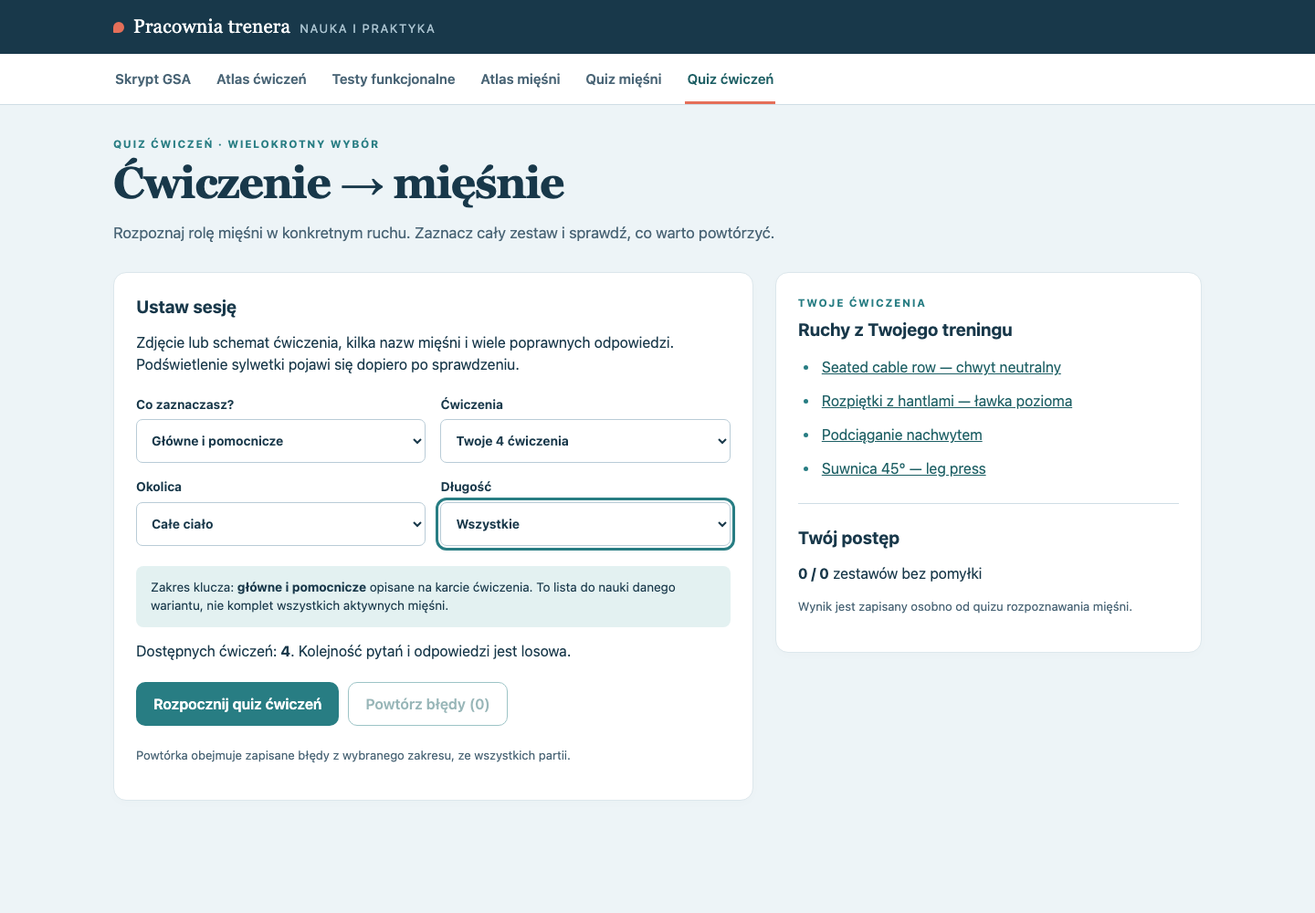
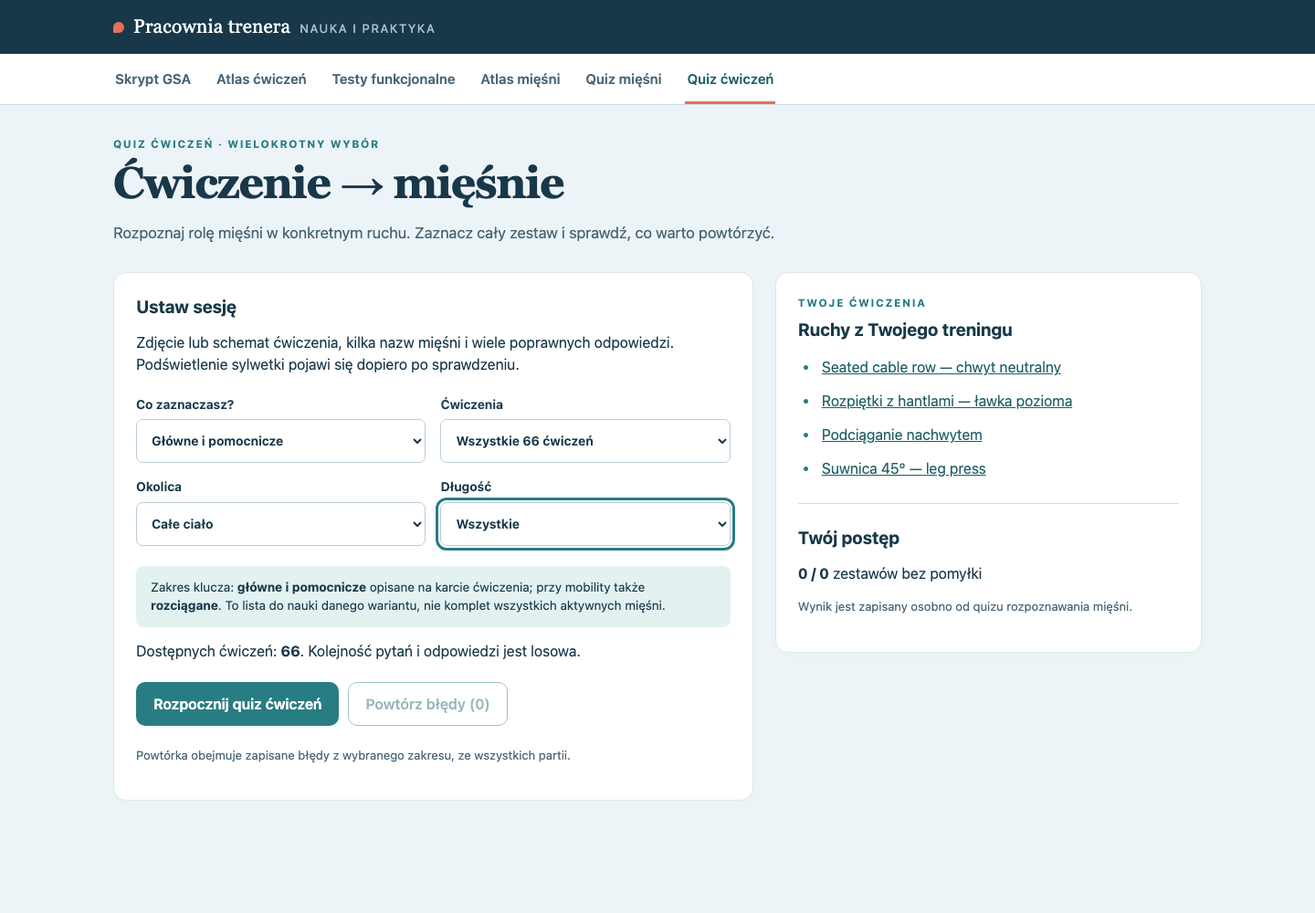
feat: include all 66 exercises in muscle quiz

Changed region(s): [[0.125, 0.62, 0.5, 0.744], [0.3438, 0.465, 0.4375, 0.496]]

diff --git a/src/exercise-quiz/app.js b/src/exercise-quiz/app.js
@@ -2,8 +2,8 @@ import { esc } from '../ui/templates.js';
 import { renderPlate } from '../anatomy/render.js';
 import { eligibleExercises,createExerciseSession,submitSelection,advanceExercise,exerciseScore,loadExerciseProgress,recordExerciseAnswer,saveExerciseProgress } from './engine.js';
 let root,exercises,source,questions,storage,progress,session=null,screen='setup',selected=[],preview=null,serial=0,saveOk=true;
-let config={scope:'ruch',length:10,region:'',onlyOwn:false};
-const scopeLabel=s=>s==='pelny'?'główne, pomocnicze i stabilizujące':'główne i pomocnicze';
+let config={scope:'ruch',length:10,region:'',onlyOwn:false,category:'all'};
+const scopeLabel=(s,e)=>e?.kind==='mobility'?(s==='pelny'?'główne, pomocnicze, rozciągane i stabilizujące':'główne, pomocnicze i rozciągane'):(s==='pelny'?'główne, pomocnicze i stabilizujące':'główne i pomocnicze');
 const buttons=(action,label,cls='btn--primary')=>`<button class="btn ${cls}" type="button" data-eq="${action}">${label}</button>`;
 function heading(){return '<div class="learn-heading"><p class="eyebrow">Quiz ćwiczeń · wielokrotny wybór</p><h1 tabindex="-1">Ćwiczenie → mięśnie</h1><p class="learn-lead">Rozpoznaj rolę mięśni w konkretnym ruchu. Zaznacz cały zestaw i sprawdź, co warto powtórzyć.</p></div>';}
 export function initExerciseQuiz(el,data){
@@ -14,16 +14,16 @@ export function initExerciseQuiz(el,data){
 }
 export function showExerciseQuiz(){render();}
 function active(){return document.body.dataset.section==='quiz-cwiczen';}
-function setup(){const count=eligibleExercises(exercises).filter(e=>(!config.region||e.region===config.region)&&(!config.onlyOwn||e.origin==='twoje')).length;const mistakes=progress.mistakes[config.scope].length;return heading()+`<div class="eq-setup"><section class="learn-card"><h2>Ustaw sesję</h2><p>Zdjęcie lub schemat ćwiczenia, kilka nazw mięśni i wiele poprawnych odpowiedzi. Podświetlenie sylwetki pojawi się dopiero po sprawdzeniu.</p><div class="eq-config"><label>Co zaznaczasz?<select name="eq-scope"><option value="ruch" ${config.scope==='ruch'?'selected':''}>Główne i pomocnicze</option><option value="pelny" ${config.scope==='pelny'?'selected':''}>Także stabilizujące</option></select></label><label>Ćwiczenia<select name="eq-own"><option value="all" ${!config.onlyOwn?'selected':''}>Wszystkie siłowe i warianty</option><option value="own" ${config.onlyOwn?'selected':''}>Twoje 4 ćwiczenia</option></select></label><label>Okolica<select name="eq-region"><option value="">Całe ciało</option>${['Góra ciała','Dół ciała'].map(v=>`<option value="${v}" ${config.region===v?'selected':''}>${v}</option>`).join('')}</select></label><label>Długość<select name="eq-length">${[5,10,20,0].map(v=>`<option value="${v}" ${config.length===v?'selected':''}>${v||'Wszystkie'}</option>`).join('')}</select></label></div><p class="eq-scope">Zakres klucza: <strong>${scopeLabel(config.scope)}</strong> opisane na karcie ćwiczenia. To lista do nauki danego wariantu, nie komplet wszystkich aktywnych mięśni.</p><p>Dostępnych ćwiczeń: <strong>${count}</strong>. Kolejność pytań i odpowiedzi jest losowa.</p><div class="eq-actions"><button class="btn btn--primary" data-eq="start" ${!count?'disabled':''}>Rozpocznij quiz ćwiczeń</button><button class="btn btn--secondary" data-eq="retry" ${!mistakes?'disabled':''}>Powtórz błędy (${mistakes})</button></div><p class="muted eq-small">Powtórka obejmuje zapisane błędy z wybranego zakresu, ze wszystkich partii.</p></section><aside class="learn-card"><p class="eyebrow">Twoje ćwiczenia</p><h2>Ruchy z Twojego treningu</h2><ul class="learn-list">${exercises.filter(e=>e.origin==='twoje').map(e=>`<li><a href="#cwiczenia/${e.id}">${esc(e.title)}</a></li>`).join('')}</ul><hr><h2>Twój postęp</h2><p><strong>${progress.perfect} / ${progress.answered}</strong> zestawów bez pomyłki</p><p class="eq-small muted">Wynik jest zapisany osobno od quizu rozpoznawania mięśni.</p></aside></div>`;}
+function setup(){const count=eligibleExercises(exercises,config.category).filter(e=>(!config.region||e.region===config.region)&&(!config.onlyOwn||e.origin==='twoje')).length;const mistakes=progress.mistakes[config.scope].length;return heading()+`<div class="eq-setup"><section class="learn-card"><h2>Ustaw sesję</h2><p>Zdjęcie lub schemat ćwiczenia, kilka nazw mięśni i wiele poprawnych odpowiedzi. Podświetlenie sylwetki pojawi się dopiero po sprawdzeniu.</p><div class="eq-config"><label>Co zaznaczasz?<select name="eq-scope"><option value="ruch" ${config.scope==='ruch'?'selected':''}>Główne i pomocnicze</option><option value="pelny" ${config.scope==='pelny'?'selected':''}>Także stabilizujące</option></select></label><label>Ćwiczenia<select name="eq-own"><option value="all" ${!config.onlyOwn&&config.category==='all'?'selected':''}>Wszystkie 66 ćwiczeń</option><option value="strength" ${!config.onlyOwn&&config.category==='strength'?'selected':''}>Siłowe i warianty (28)</option><option value="mobility" ${!config.onlyOwn&&config.category==='mobility'?'selected':''}>Mobility i rozciąganie (38)</option><option value="own" ${config.onlyOwn?'selected':''}>Twoje 4 ćwiczenia</option></select></label><label>Okolica<select name="eq-region"><option value="">Całe ciało</option>${[...new Set(eligibleExercises(exercises).map(e=>e.region))].map(v=>`<option value="${v}" ${config.region===v?'selected':''}>${v}</option>`).join('')}</select></label><label>Długość<select name="eq-length">${[5,10,20,0].map(v=>`<option value="${v}" ${config.length===v?'selected':''}>${v||'Wszystkie'}</option>`).join('')}</select></label></div><p class="eq-scope">Zakres klucza: <strong>${scopeLabel(config.scope)}</strong> opisane na karcie ćwiczenia; przy mobility także <strong>rozciągane</strong>. To lista do nauki danego wariantu, nie komplet wszystkich aktywnych mięśni.</p><p>Dostępnych ćwiczeń: <strong>${count}</strong>. Kolejność pytań i odpowiedzi jest losowa.</p><div class="eq-actions"><button class="btn btn--primary" data-eq="start" ${!count?'disabled':''}>Rozpocznij quiz ćwiczeń</button><button class="btn btn--secondary" data-eq="retry" ${!mistakes?'disabled':''}>Powtórz błędy (${mistakes})</button></div><p class="muted eq-small">Powtórka obejmuje zapisane błędy z wybranego zakresu, ze wszystkich partii.</p></section><aside class="learn-card"><p class="eyebrow">Twoje ćwiczenia</p><h2>Ruchy z Twojego treningu</h2><ul class="learn-list">${exercises.filter(e=>e.origin==='twoje').map(e=>`<li><a href="#cwiczenia/${e.id}">${esc(e.title)}</a></li>`).join('')}</ul><hr><h2>Twój postęp</h2><p><strong>${progress.perfect} / ${progress.answered}</strong> zestawów bez pomyłki</p><p class="eq-small muted">Wynik jest zapisany osobno od quizu rozpoznawania mięśni.</p></aside></div>`;}
 function imageFor(e){const ref=e.figures?.[0];return e.image|| (ref?source.pages[ref.page-1]?.figures[ref.index-1]?.src:null);}
 function keyNames(q,ids){return ids.map(id=>q.options.find(o=>o.key===id)?.name||id);}
 function resultList(title,items,cls){return `<div class="eq-result-list ${cls}"><h3>${title}</h3>${items.length?`<ul>${items.map(n=>`<li>${esc(n)}</li>`).join('')}</ul>`:'<p>Brak</p>'}</div>`;}
 function body(){const q=session.items[session.index];const e=exercises.find(e=>e.id===q.exerciseId);const answer=session.answers[session.index];const img=imageFor(e);const selectedKeys=answer?.selected||selected;
-return heading()+`<div class="eq-progress"><span>Pytanie ${session.index+1} z ${session.items.length}</span><span>Bez pomyłki: ${exerciseScore(session).perfect}</span><progress max="${session.items.length}" value="${session.index+(answer?1:0)}" aria-label="Postęp quizu ćwiczeń"></progress></div><div class="eq-question-layout"><section class="learn-card eq-visual"><p class="eyebrow">Rozpoznaj zaangażowanie</p><h2 id="eq-exercise-title">${esc(e.title)}</h2><p class="eq-small muted">${esc(e.pattern)}</p>${img?`<img src="${img}" alt="${esc(e.imageAlt||('Wykonanie: '+e.title+'. Zdjęcie ze skryptu GSA.'))}" class="eq-exercise-image">`:''}<p class="learn-source">${e.origin==='twoje'?'Schemat edukacyjny · ćwiczenie dodane na Twoją prośbę':'Fotografia ze skryptu GSA · PDF '+e.figures[0].page}</p>${answer?`<a href="#cwiczenia/${e.id}">Otwórz pełną kartę i technikę ćwiczenia ↗</a>`:''}</section><section class="learn-card eq-answer-card"><form id="eq-answer"><fieldset ${answer?'disabled':''}><legend>Zaznacz mięśnie ${scopeLabel(session.scope)}.</legend><p class="eq-small muted">Możesz wybrać kilka odpowiedzi. Sprawdzamy zestaw opisany w atlasie dla tego wariantu ćwiczenia.</p><div class="eq-options">${q.options.map((o,i)=>{const hit=answer?.hits.includes(o.key);const missing=answer?.missed.includes(o.key);const extra=answer?.extra.includes(o.key);return `<label class="eq-option ${hit?'eq-hit':missing?'eq-missed':extra?'eq-extra':''}"><input type="checkbox" name="eq-muscle" value="${esc(o.key)}" ${selectedKeys.includes(o.key)?'checked':''}><span>${esc(o.name)}${answer?`<small>${hit?'✓ Poprawnie':missing?'Pominięto':extra?'Poza kluczem':'Poza kluczem — nie zaznaczono'}</small>`:''}</span></label>`}).join('')}</div></fieldset>${!answer?`<button type="submit" class="btn btn--primary" id="eq-check" ${!selected.length?'disabled':''}>Sprawdź zestaw</button>`:''}</form>${answer?`<div class="eq-feedback" role="status"><strong>${answer.perfect?'✓ Cały zestaw poprawny!':'Zestaw wymaga powtórki'}</strong><p>Wynik mięśni: ${answer.percent}%. Trafione: ${answer.hits.length} / ${q.correct.length}. Zaznaczenia poza kluczem obniżają wynik.</p></div><div class="eq-corrections">${resultList('Pominięte mięśnie',keyNames(q,answer.missed),'eq-missed')}${resultList('Zaznaczone poza kluczem',keyNames(q,answer.extra),'eq-extra')}</div>${buttons('next',session.index+1===session.items.length?'Zobacz wynik':'Następne ćwiczenie')}`:`<p class="eq-selection" aria-live="polite">Wybrano: <span id="eq-selected-count">${selected.length}</span></p>`}<div class="eq-bottom">${buttons('quit','Zakończ sesję','btn--quiet')}</div></section></div>${answer?explanation(e,q):''}`;}
-function explanation(e,q){const required=e.muscles.filter(m=>q.correct.includes(m.id));const picked=questions.find(m=>m.id===(preview||required[0]?.id));const photo=picked?renderPlate({viewId:picked.view,targets:picked.targets,crop:picked.crop,idPrefix:'eq'+(++serial)}):'';return `<section class="learn-card eq-explanation"><div><p class="eyebrow">Utrwal po odpowiedzi</p><h2>Rola mięśni w tym ruchu</h2><p class="eq-small muted">Wybierz mięsień, aby obejrzeć jego położenie. Przy grupie kulszowo-goleniowej rycina pokazuje reprezentanta: dwugłowy uda.</p><div class="eq-role-buttons">${e.muscles.filter(m=>m.role!=='rozciągany').map(m=>`<button data-eq="preview" data-id="${esc(m.id||'')}" ${!questions.some(q=>q.id===m.id)?'disabled':''} aria-pressed="${picked?.id===m.id}"><span>${esc(m.name)}</span><small>${esc(m.role)}</small></button>`).join('')}</div><p class="eq-small muted">Zakres oceny: ${scopeLabel(session.scope)}. Poza tym zakresem mięsień może pełnić inną rolę; „poza kluczem” nie oznacza całkowitego braku aktywności.</p></div><figure>${photo}<figcaption>${esc(picked?.name||'Podgląd niedostępny')}</figcaption></figure></section>`;}
-function summary(){const score=exerciseScore(session);const wrong=session.items.filter((q,i)=>session.answers[i]&&!session.answers[i].perfect);return heading()+`<section class="learn-card eq-summary"><p class="eyebrow">Sesja zakończona</p><h2>${score.perfect} / ${score.total} ćwiczeń bez pomyłki</h2><p class="eq-big-score">${score.percent}%<span>średni wynik rozpoznawania mięśni</span></p><p>Zakres: ${scopeLabel(session.scope)}.</p><div class="eq-actions">${buttons('start','Nowa sesja')}<button class="btn btn--secondary" data-eq="retry" ${!progress.mistakes[session.scope].length?'disabled':''}>Powtórz błędy (${progress.mistakes[session.scope].length})</button>${buttons('setup','Ustawienia','btn--quiet')}</div>${wrong.length?`<h3>Do utrwalenia w tej sesji</h3><ul class="learn-list">${wrong.map(q=>`<li><a href="#cwiczenia/${q.exerciseId}">${esc(exercises.find(e=>e.id===q.exerciseId).title)}</a></li>`).join('')}</ul>`:'<p>Wszystkie zestawy rozpoznane poprawnie.</p>'}</section>`;}
+return heading()+`<div class="eq-progress"><span>Pytanie ${session.index+1} z ${session.items.length}</span><span>Bez pomyłki: ${exerciseScore(session).perfect}</span><progress max="${session.items.length}" value="${session.index+(answer?1:0)}" aria-label="Postęp quizu ćwiczeń"></progress></div><div class="eq-question-layout"><section class="learn-card eq-visual"><p class="eyebrow">Rozpoznaj zaangażowanie</p><h2 id="eq-exercise-title">${esc(e.title)}</h2><p class="eq-small muted">${esc(e.pattern)}</p>${img?`<img src="${img}" alt="${esc(e.imageAlt||('Wykonanie: '+e.title+'. Zdjęcie ze skryptu GSA.'))}" class="eq-exercise-image">`:''}<p class="learn-source">${e.origin==='twoje'?'Schemat edukacyjny · ćwiczenie dodane na Twoją prośbę':'Fotografia ze skryptu GSA · PDF '+e.figures[0].page}</p>${answer?`<a href="#cwiczenia/${e.id}">Otwórz pełną kartę i technikę ćwiczenia ↗</a>`:''}</section><section class="learn-card eq-answer-card"><form id="eq-answer"><fieldset ${answer?'disabled':''}><legend>Zaznacz mięśnie ${scopeLabel(session.scope,e)}.</legend><p class="eq-small muted">Możesz wybrać kilka odpowiedzi. Sprawdzamy zestaw opisany w atlasie dla tego wariantu ćwiczenia.</p><div class="eq-options">${q.options.map((o,i)=>{const hit=answer?.hits.includes(o.key);const missing=answer?.missed.includes(o.key);const extra=answer?.extra.includes(o.key);return `<label class="eq-option ${hit?'eq-hit':missing?'eq-missed':extra?'eq-extra':''}"><input type="checkbox" name="eq-muscle" value="${esc(o.key)}" ${selectedKeys.includes(o.key)?'checked':''}><span>${esc(o.name)}${answer?`<small>${hit?'✓ Poprawnie':missing?'Pominięto':extra?'Poza kluczem':'Poza kluczem — nie zaznaczono'}</small>`:''}</span></label>`}).join('')}</div></fieldset>${!answer?`<button type="submit" class="btn btn--primary" id="eq-check" ${!selected.length?'disabled':''}>Sprawdź zestaw</button>`:''}</form>${answer?`<div class="eq-feedback" role="status"><strong>${answer.perfect?'✓ Cały zestaw poprawny!':'Zestaw wymaga powtórki'}</strong><p>Wynik mięśni: ${answer.percent}%. Trafione: ${answer.hits.length} / ${q.correct.length}. Zaznaczenia poza kluczem obniżają wynik.</p></div><div class="eq-corrections">${resultList('Pominięte mięśnie',keyNames(q,answer.missed),'eq-missed')}${resultList('Zaznaczone poza kluczem',keyNames(q,answer.extra),'eq-extra')}</div>${buttons('next',session.index+1===session.items.length?'Zobacz wynik':'Następne ćwiczenie')}`:`<p class="eq-selection" aria-live="polite">Wybrano: <span id="eq-selected-count">${selected.length}</span></p>`}<div class="eq-bottom">${buttons('quit','Zakończ sesję','btn--quiet')}</div></section></div>${answer?explanation(e,q):''}`;}
+function explanation(e,q){const required=e.muscles.filter(m=>q.correct.includes(m.id));const firstMapped=required.find(m=>questions.some(q=>q.id===m.id));const picked=questions.find(m=>m.id===(preview||firstMapped?.id));const photo=picked?renderPlate({viewId:picked.view,targets:picked.targets,crop:picked.crop,idPrefix:'eq'+(++serial)}):'';return `<section class="learn-card eq-explanation"><div><p class="eyebrow">Utrwal po odpowiedzi</p><h2>Rola mięśni w tym ruchu</h2><p class="eq-small muted">Wybierz mięsień, aby obejrzeć jego położenie. Przy grupie kulszowo-goleniowej rycina pokazuje reprezentanta: dwugłowy uda.</p><div class="eq-role-buttons">${e.muscles.filter(m=>e.kind==='mobility'||m.role!=='rozciągany').map(m=>`<button data-eq="preview" data-id="${esc(m.id||'')}" ${!questions.some(q=>q.id===m.id)?'disabled':''} aria-pressed="${picked?.id===m.id}"><span>${esc(m.name)}</span><small>${esc(m.role)}</small></button>`).join('')}</div><p class="eq-small muted">Zakres oceny: ${scopeLabel(session.scope,e)}. Poza tym zakresem mięsień może pełnić inną rolę; „poza kluczem” nie oznacza całkowitego braku aktywności.</p></div><figure>${photo}<figcaption>${esc(picked?.name||'Podgląd niedostępny')}</figcaption></figure></section>`;}
+function summary(){const score=exerciseScore(session);const wrong=session.items.filter((q,i)=>session.answers[i]&&!session.answers[i].perfect);return heading()+`<section class="learn-card eq-summary"><p class="eyebrow">Sesja zakończona</p><h2>${score.perfect} / ${score.total} ćwiczeń bez pomyłki</h2><p class="eq-big-score">${score.percent}%<span>średni wynik rozpoznawania mięśni</span></p><p>Zakres: ${scopeLabel(session.scope)}; przy mobility także mięśnie rozciągane.</p><div class="eq-actions">${buttons('start','Nowa sesja')}<button class="btn btn--secondary" data-eq="retry" ${!progress.mistakes[session.scope].length?'disabled':''}>Powtórz błędy (${progress.mistakes[session.scope].length})</button>${buttons('setup','Ustawienia','btn--quiet')}</div>${wrong.length?`<h3>Do utrwalenia w tej sesji</h3><ul class="learn-list">${wrong.map(q=>`<li><a href="#cwiczenia/${q.exerciseId}">${esc(exercises.find(e=>e.id===q.exerciseId).title)}</a></li>`).join('')}</ul>`:'<p>Wszystkie zestawy rozpoznane poprawnie.</p>'}</section>`;}
 function render(focus){if(!root)return;root.innerHTML=screen==='setup'?setup():screen==='summary'?summary():body();if(!saveOk)root.insertAdjacentHTML('beforeend','<p class="learn-caution" role="status">Zapis w przeglądarce jest niedostępny. Błędy zachowamy tylko do zamknięcia strony.</p>');if(focus)root.querySelector(focus)?.focus({preventScroll:true});}
-function start(retry=false){session=createExerciseSession(exercises,{...config,onlyIds:retry?progress.mistakes[config.scope]:null,onlyOwn:retry?false:config.onlyOwn,region:retry?'':config.region,length:retry?0:config.length});if(!session.items.length){screen='setup';render();return;}selected=[];preview=null;screen='question';render('h1');window.scrollTo(0,0);}
-function onChange(event){if(!active())return;const el=event.target;if(el.name==='eq-muscle'){if(session?.answers[session.index])return;selected=[...root.querySelectorAll('input[name="eq-muscle"]:checked')].map(el=>el.value);root.querySelector('#eq-check').disabled=!selected.length;root.querySelector('#eq-selected-count').textContent=selected.length;return;}const name=el.name;if(!name?.startsWith('eq-'))return;if(name==='eq-scope')config.scope=el.value;if(name==='eq-own')config.onlyOwn=el.value==='own';if(name==='eq-region')config.region=el.value;if(name==='eq-length')config.length=Number(el.value);render(`[name="${name}"]`);}
+function start(retry=false){session=createExerciseSession(exercises,{...config,onlyIds:retry?progress.mistakes[config.scope]:null,onlyOwn:retry?false:config.onlyOwn,region:retry?'':config.region,category:retry?'all':config.category,length:retry?0:config.length});if(!session.items.length){screen='setup';render();return;}selected=[];preview=null;screen='question';render('h1');window.scrollTo(0,0);}
+function onChange(event){if(!active())return;const el=event.target;if(el.name==='eq-muscle'){if(session?.answers[session.index])return;selected=[...root.querySelectorAll('input[name="eq-muscle"]:checked')].map(el=>el.value);root.querySelector('#eq-check').disabled=!selected.length;root.querySelector('#eq-selected-count').textContent=selected.length;return;}const name=el.name;if(!name?.startsWith('eq-'))return;if(name==='eq-scope')config.scope=el.value;if(name==='eq-own'){config.onlyOwn=el.value==='own';config.category=['strength','mobility'].includes(el.value)?el.value:'all';}if(name==='eq-region')config.region=el.value;if(name==='eq-length')config.length=Number(el.value);render(`[name="${name}"]`);}
 function onSubmit(event){if(!active()||event.target.id!=='eq-answer')return;event.preventDefault();const result=submitSelection(session,selected);if(!result.accepted)return;session=result.session;progress=recordExerciseAnswer(progress,session.items[session.index].exerciseId,session.scope,result.result);saveOk=saveExerciseProgress(storage,progress);render('[data-eq="next"]');}
 function onClick(event){if(!active())return;const button=event.target.closest('[data-eq]');if(!button||button.disabled)return;const action=button.dataset.eq;if(action==='start')start();if(action==='retry')start(true);if(action==='quit'||action==='setup'){screen='setup';render('h1');}if(action==='next'){const next=advanceExercise(session);if(next===session)return;session=next;selected=[];preview=null;screen=session.finished?'summary':'question';render('h1');window.scrollTo(0,0);}if(action==='preview'){preview=button.dataset.id;const y=window.scrollY;render(`[data-eq="preview"][data-id="${preview}"]`);window.scrollTo(0,y);}}

diff --git a/tests/exercise-quiz.test.js b/tests/exercise-quiz.test.js
@@ -7,11 +7,13 @@ import {QUIZ_KEY,eligibleExercises,requiredMuscles,createExerciseSession,buildQu
 const ids=new Set(QUESTIONS.map(q=>q.id));
 test('cztery ćwiczenia użytkownika mają schematy, instrukcje i istniejące mięśnie',()=>{
  assert.deepEqual(EXTRA_EXERCISES.map(e=>e.id),['seated-cable-row','dumbbell-fly','pull-up-overhand','leg-press-45']);
- assert.equal(EXERCISES.length,66);assert.equal(eligibleExercises(EXERCISES).length,28);
+ assert.equal(EXERCISES.length,66);assert.equal(eligibleExercises(EXERCISES).length,66);
  for(const e of EXTRA_EXERCISES){assert(existsSync(new URL('../'+e.image,import.meta.url)));assert(e.steps.length>=3);assert(e.sources.length);assert(e.muscles.every(m=>ids.has(m.id)&&m.name));assert.equal(e.origin,'twoje');}
 });
-test('quiz pomija mobility i mięśnie jedynie rozciągane',()=>{
- const items=createExerciseSession(EXERCISES,{length:0}).items;assert(items.every(q=>EXERCISES.find(e=>e.id===q.exerciseId).kind!=='mobility'));
+test('quiz obejmuje mobility, a rozciąganie rozróżnia od pracy siłowej',()=>{
+ const items=createExerciseSession(EXERCISES,{length:0}).items;assert.equal(items.length,66);assert(items.some(q=>EXERCISES.find(e=>e.id===q.exerciseId).kind==='mobility'));
+ const stretch=EXERCISES.find(e=>e.id==='hamstring-pir');assert.equal(requiredMuscles(stretch).length,1);assert.equal(requiredMuscles(stretch)[0].role,'rozciągany');
+ assert.equal(eligibleExercises(EXERCISES,'strength').length,28);assert.equal(eligibleExercises(EXERCISES,'mobility').length,38);
  const bulgarian=EXERCISES.find(e=>e.id==='bulgarian-split-squat');assert(requiredMuscles(bulgarian,'pelny').every(m=>m.role!=='rozciągany'));
 });
 test('pytania: poprawne nazwy bez duplikatów, trzy dystraktory, rola stabilizacyjna nie jest błędem w prostym zakresie',()=>{
@@ -22,7 +24,7 @@ test('pytania: poprawne nazwy bez duplikatów, trzy dystraktory, rola stabilizac
  }
 });
 test('losowanie i filtry dają sesję bez powtórzeń, także dla własnych ćwiczeń i pustego zestawu',()=>{
- const full=createExerciseSession(EXERCISES,{length:0});assert.equal(new Set(full.items.map(q=>q.exerciseId)).size,28);
+ const full=createExerciseSession(EXERCISES,{length:0});assert.equal(new Set(full.items.map(q=>q.exerciseId)).size,66);
  const own=createExerciseSession(EXERCISES,{onlyOwn:true,length:10});assert.equal(own.items.length,4);assert(own.items.every(q=>EXTRA_EXERCISES.some(e=>e.id===q.exerciseId)));
  const lower=createExerciseSession(EXERCISES,{onlyOwn:true,region:'Dół ciała'});assert.equal(lower.items.length,1);assert.equal(lower.items[0].exerciseId,'leg-press-45');
  assert.equal(createExerciseSession(EXERCISES,{onlyIds:[]}).finished,true);
@@ -48,3 +50,10 @@ test('zapis nowego quizu nie zmienia starego quizu ani notatek; uszkodzony zapis
  assert(data.has(QUIZ_KEY));assert.equal(saveExerciseProgress(null,p),false);assert.deepEqual(loadExerciseProgress({getItem:()=>'{bad'}),emptyExerciseProgress());
  const clean=loadExerciseProgress({getItem:()=>JSON.stringify({...p,answered:-5,perfect:99,mistakes:{ruch:['deadlift','deadlift','old']}})},new Set(['deadlift']));assert.equal(clean.answered,0);assert.equal(clean.perfect,0);assert.deepEqual(clean.mistakes.ruch,['deadlift']);assert.deepEqual(clean.mistakes.pelny,[]);
 });
+
+ test('pełna sesja mobility rozpoznaje także mięśnie bez osobnego identyfikatora ryciny',()=>{
+  let s=createExerciseSession(EXERCISES,{category:'mobility',length:0});assert.equal(s.items.length,38);
+  assert(s.items.some(q=>q.correct.some(k=>k.startsWith('name:'))));
+  for(let i=0;i<38;i++){const q=s.items[s.index];const r=submitSelection(s,q.correct);assert(r.accepted);assert(r.result.perfect);s=advanceExercise(r.session);}
+  assert(s.finished);assert.equal(exerciseScore(s).perfect,38);
+ });

diff --git a/src/exercise-quiz/engine.js b/src/exercise-quiz/engine.js
@@ -3,10 +3,10 @@ export const QUIZ_KEY='exercise-muscles-quiz:v1';
 export const ROLES={ruch:['główny','pomocniczy'],pelny:['główny','pomocniczy','stabilizacja']};
 export const muscleKey=m=>m.id||`name:${m.name}`;
 export function requiredMuscles(exercise,scope='ruch'){
- const roles=ROLES[scope]||ROLES.ruch;
+ const roles=[...(ROLES[scope]||ROLES.ruch),...(exercise.kind==='mobility'?['rozciągany']:[])];
  return [...new Map(exercise.muscles.filter(m=>roles.includes(m.role)).map(m=>[muscleKey(m),m])).values()];
 }
-export function eligibleExercises(exercises){return exercises.filter(e=>e.kind!=='mobility'&&requiredMuscles(e).length);}
+export function eligibleExercises(exercises,category='all'){return exercises.filter(e=>(category==='all'||(category==='mobility'?e.kind==='mobility':e.kind!=='mobility'))&&requiredMuscles(e).length);}
 export function musclePool(exercises){
  const pool=new Map();
  for(const e of eligibleExercises(exercises))for(const m of e.muscles){
@@ -23,9 +23,9 @@ export function buildQuestion(exercise,exercises,scope='ruch',rng=Math.random){
  const options=shuffle([...pool.filter(m=>correct.includes(m.key)),...wrong],rng);
  return {exerciseId:exercise.id,correct,options};
 }
-export function createExerciseSession(exercises,{scope='ruch',length=10,region='',onlyOwn=false,onlyIds=null,rng=Math.random}={}){
+export function createExerciseSession(exercises,{scope='ruch',length=10,region='',onlyOwn=false,category='all',onlyIds=null,rng=Math.random}={}){
  const safeScope=ROLES[scope]?scope:'ruch';
- const pool=eligibleExercises(exercises).filter(e=>(!region||e.region===region)&&(!onlyOwn||e.origin==='twoje')&&(!onlyIds||onlyIds.includes(e.id)));
+ const pool=eligibleExercises(exercises,category).filter(e=>(!region||e.region===region)&&(!onlyOwn||e.origin==='twoje')&&(!onlyIds||onlyIds.includes(e.id)));
  const shuffled=shuffle(pool,rng);const picked=length>0?shuffled.slice(0,length):shuffled;
  return {scope:safeScope,items:picked.map(e=>buildQuestion(e,exercises,safeScope,rng)),index:0,answers:picked.map(()=>null),finished:picked.length===0};
 }

diff --git a/README.md b/README.md
@@ -42,17 +42,17 @@ Wszystko działa lokalnie, bez konta i bez wysyłania notatek na serwer. Wyniki 
 - `src/anatomy/`, `src/quiz/`, `src/ui/` – ryciny i dotychczasowy quiz.
 - `tests/` – testy quizu, zapisu postępu, kursu i integralności zasobów.
 
-Projekt działa lokalnie. Nie został opublikowany w internecie.
+Projekt działa lokalnie lub jako statyczna strona GitHub Pages: https://giblecdg.github.io/gsa-course/. Repozytorium: https://github.com/giblecdg/gsa-course. Testy uruchamiają się automatycznie przy zmianach i pull requestach.
 
 ## Nowość: quiz ćwiczeń (wersja 2.1)
 
 Zakładka **Quiz ćwiczeń** (`#quiz-cwiczen`) pokazuje wykonanie ćwiczenia, a następnie prosi o zaznaczenie kilku nazw mięśni. Odpowiedzi są tasowane. Przycisk **Sprawdź zestaw** blokuje odpowiedź i wyróżnia trafienia, pominięcia oraz zaznaczenia poza kluczem. Sylwetka z podświetlonym mięśniem jest dostępna dopiero po ocenie.
 
-- Pula: **28 aktywnych ćwiczeń siłowych i wariantów**. Mobilizacje pozostają w atlasie, ale nie są oceniane jako ćwiczenia angażujące główne mięśnie ruchu.
+- Pula: **wszystkie 66 ćwiczeń**. Można wybrać całą bazę, 28 ćwiczeń siłowych i wariantów, 38 mobilizacji lub cztery ćwiczenia dodane na Twoją prośbę. Przy mobility klucz obejmuje także mięśnie rozciągane; są one jawnie odróżnione od mięśni aktywnie pracujących.
 - Dwa zakresy: **główne i pomocnicze** oraz **także stabilizujące**. Klucz dotyczy ról opisanych w karcie, a nie każdej możliwej aktywności mięśniowej. Stabilizatory nie są fałszywymi odpowiedziami w pierwszym zakresie.
 - Wynik całego zestawu wymaga wszystkich poprawnych odpowiedzi i braku nadmiarowych. Wynik częściowy uwzględnia trafienia, pominięcia oraz nadmiarowe zaznaczenia; zaznaczenie wszystkich opcji nie daje pełnego wyniku.
 - Osobne powtórki błędów dla dwóch zakresów; poprawna powtórka usuwa dany błąd. Statystyki zapisują się w `exercise-muscles-quiz:v1` bez zmiany starszych wyników i notatek.
-- Filtry: okolica ciała i **Twoje 4 ćwiczenia**; długość sesji 5, 10, 20 lub cała dostępna pula.
+- Filtry: rodzaj ćwiczeń, wszystkie okolice ciała z atlasu i **Twoje 4 ćwiczenia**; długość sesji 5, 10, 20 lub cała dostępna pula.
 
 Do atlasu (łącznie **66 kart**) i nowego quizu dodano: seated cable row z chwytem neutralnym, rozpiętki z hantlami na ławce poziomej, podciąganie nachwytem oraz suwnicę 45°. Warianty opisano jawnie; suwnica oznacza leg press, nie maszynę Smitha. Cztery dodatkowe ćwiczenia mają własne schematy ruchu SVG oraz odnośniki do źródeł. Są uzupełnieniem skryptu, a nie materiałem przypisanym GSA.
 

diff --git a/TESTY.md b/TESTY.md
@@ -55,3 +55,11 @@ Nowy test Chromium sprawdził:
 - brak błędów JavaScript i odpowiedzi HTTP 4xx/5xx.
 
 Powtórzono również test całej wcześniejszej biblioteki: 5 modułów, 26 rozdziałów, 131. strona, wszystkie 66 kart ćwiczeń i ich podglądy mięśni, 9 poradników, notatki, zapisane ćwiczenia i stary quiz. Przeszedł bez błędów.
+
+## Aktualizacja: wszystkie 66 ćwiczeń w quizie (wersja 2.2)
+
+`npm test`: 262 zaliczone, 0 błędów. Sprawdzenie składni wszystkich modułów JavaScript i `git diff --check` zakończyły się poprawnie. Wszystkie 240 zasobów stron/ilustracji GSA, cztery schematy nowych ćwiczeń i pełny tekst są śledzone w Git.
+
+Test Chromium przeszedł pełną sesję 66 ćwiczeń w zakresie podstawowym oraz 66 w zakresie ze stabilizatorami (132 poprawne zestawy). Sprawdził role rozciągania w mobility, klucze mięśni bez odrębnej ryciny, filtry 66/28/38, filtr okolicy ciała, zapis wyniku po odświeżeniu i układ mobilny 390 px. Nie wystąpiły błędy JavaScript ani HTTP.
+
+W repozytorium dodano automatyczny workflow uruchamiający testy i sprawdzanie składni przy pushach i pull requestach. Wynik kontroli zdalnej jest dostępny w GitHub Actions.
